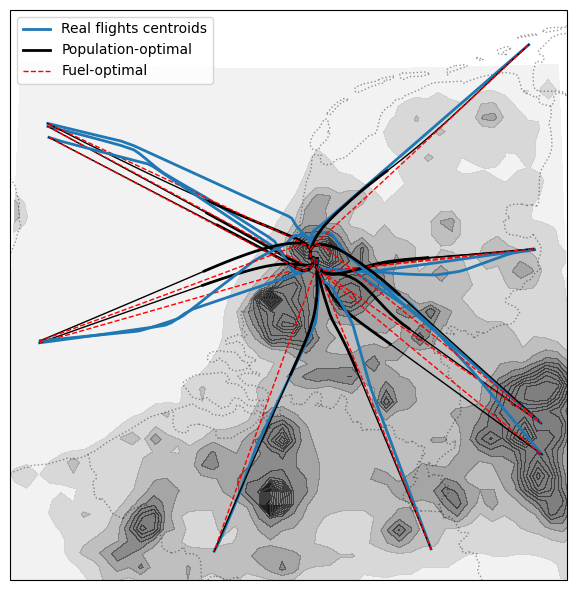
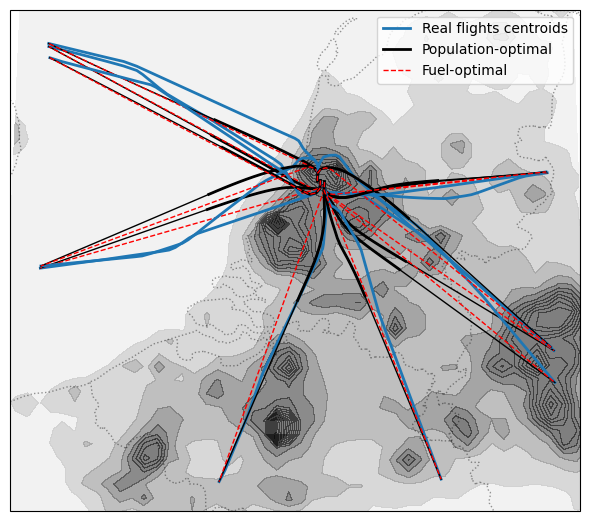
fix figs

diff --git a/scripts/analysis_n_plot.py b/scripts/analysis_n_plot.py
@@ -117,7 +117,7 @@ cbar2 = plt.colorbar(
 cbar2.set_ticks([0, 0.104])
 cbar2.set_ticklabels(["Low", "High"])
 
-cbar2.ax.set_xlabel("Grid\ncost", rotation=0, labelpad=-185, fontsize=11)
+cbar2.ax.set_xlabel("Cost\ngrid", rotation=0, labelpad=-185, fontsize=11)
 
 plt.tight_layout()
 plt.savefig("../figs/cost_vs_pop.png", bbox_inches="tight", dpi=300)
@@ -317,28 +317,36 @@ gamma = np.arctan2(
 thrust = D + flights.mass * 9.81 * np.sin(gamma)
 flights = flights.assign(thrust=thrust)
 # %%
-max_fuel = True
+
 if max_fuel:
-    coef = "Max fuel"
+    coef = "Fuel constraint"
 else:
-    coef = r"$c_{dn}$"
+    coef = r"$c_{dn}, 10^{-4}$"
 latex_tab = []
 for i, num in enumerate(flights.num.unique()):
     flight = flights.query("num==@num")
     latex_tab.append(
         {
             "fid": flight.fid.iloc[0],
-            coef: flight.num.iloc[0],
+            coef: flight.num.iloc[0] * 100,
             "Fuel consumed, kg": flight.mass.iloc[0] - flight.mass.iloc[-1],
             r"$C_{grid}$": flight.cost_grid.sum(),
             r"$T \times C_{grid}$": (flight.cost_grid * flight.thrust).sum(),
         }
     )
+
 latex_tab = pd.DataFrame().from_dict(latex_tab).sort_values(by=["fid"])
 latex_tab["Fuel spent, kg"] = latex_tab["Fuel consumed, kg"].apply(lambda x: f"{x:.2f}")
-# latex_tab[r"$C_{grid}$"]=latex_tab[r"$C_{grid}$"].apply(lambda x: f"{x:.2f}")
+latex_tab[r"$C_{grid}$"] = latex_tab[r"$C_{grid}$"].apply(lambda x: f"{x:.3f}")
 if max_fuel:
-    latex_tab["Max fuel"] = latex_tab["Max fuel"].apply(lambda x: f"{x:.3f}")
+    latex_tab["Fuel constraint"] = latex_tab["Fuel constraint"].apply(
+        lambda x: f"{x:.2f}~\%"
+    )
+else:
+    latex_tab[r"$c_{dn}, 10^{-4}$"] = latex_tab[r"$c_{dn}, 10^{-4}$"].apply(
+        lambda x: f"{x*10:.3f}"
+    )
+
 latex_tab[r"$T \times C_{grid}$"] = (
     latex_tab[r"$T \times C_{grid}$"].astype(int).apply(lambda x: f"{x:,}")
 )
@@ -458,9 +466,9 @@ cbar = fig.colorbar(
 cbar.set_ticks(np.linspace(0, 5, 5))
 # cbar.set_ticks([0,5])
 # cbar.set_ticklabels(["Fuel optimal", "Population optimal"])
-cbar.set_ticklabels([0.0, 0.3, 1.5, 3.0, 9.0])
+cbar.set_ticklabels([0.00, 0.03, 0.15, 0.30, 0.90])
 # cbar.set_label(r"Fuel optimal   →   Population optimal")
-cbar.set_label(r"Cost-weighting factor $c_{dn}, × 10^{-4}$")
+cbar.set_label(r"Cost-weighting factor $c_{dn}, × 10^{-3}$")
 # ax.legend()
 
 
@@ -611,7 +619,12 @@ fig, ax = plt.subplots(
 ax.set_extent(plot_extent)
 ax.add_feature(BORDERS, linestyle="dotted", alpha=1)
 ax.add_feature(COASTLINE, linestyle="dotted", alpha=1)
-
+plot_extent = [
+    min(flights.longitude.values) - 0.3 - 0.15,
+    max(flights.longitude.values) + 0.3 + 0.15,
+    min(flights.latitude.values) - 0.3 - 0.15,
+    max(flights.latitude.values) + 0.3 + 0.15,
+]
 
 df_c = df_cost  # .assign(cost=lambda x: np.where(x.cost > 0.8, 0.8, x.cost)).assign(cost=lambda x: np.where(x.cost < 0.01, 0.01, x.cost))
 
@@ -621,7 +634,7 @@ contr = ax.contourf(
     df_cost.longitude.values.reshape(nx, ny, nz)[:, :, 0],
     df_cost.latitude.values.reshape(nx, ny, nz)[:, :, 0],
     df_cost.cost.values.reshape(nx, ny, nz)[:, :, 6],
-    levels=25,
+    levels=15,
     alpha=0.4,
     norm=norm,
     transform=trans,
@@ -695,7 +708,7 @@ cbar = fig.colorbar(
 )
 cbar.set_ticks(np.linspace(0, 5, 5))
 cbar.set_ticklabels(["0%", "0.1%", "0.5%", "1.1%", "2%"])
-cbar.set_label("Fuel allowence increment")
+cbar.set_label("Fuel allowance increment")
 # ax.legend()
 
 
@@ -830,7 +843,7 @@ for ax in [ax0, ax1, ax2]:
         fontsize=8,
         bbox=dict(facecolor="white"),
     )
-    ax.legend(fontsize=7)
+    ax.legend(fontsize=10)
     gl = ax.gridlines(draw_labels=False, color="gray", alpha=0.5, ls="--")
     gl.left_labels = True
     gl.xlocator = mticker.FixedLocator([4, 5, 6])
